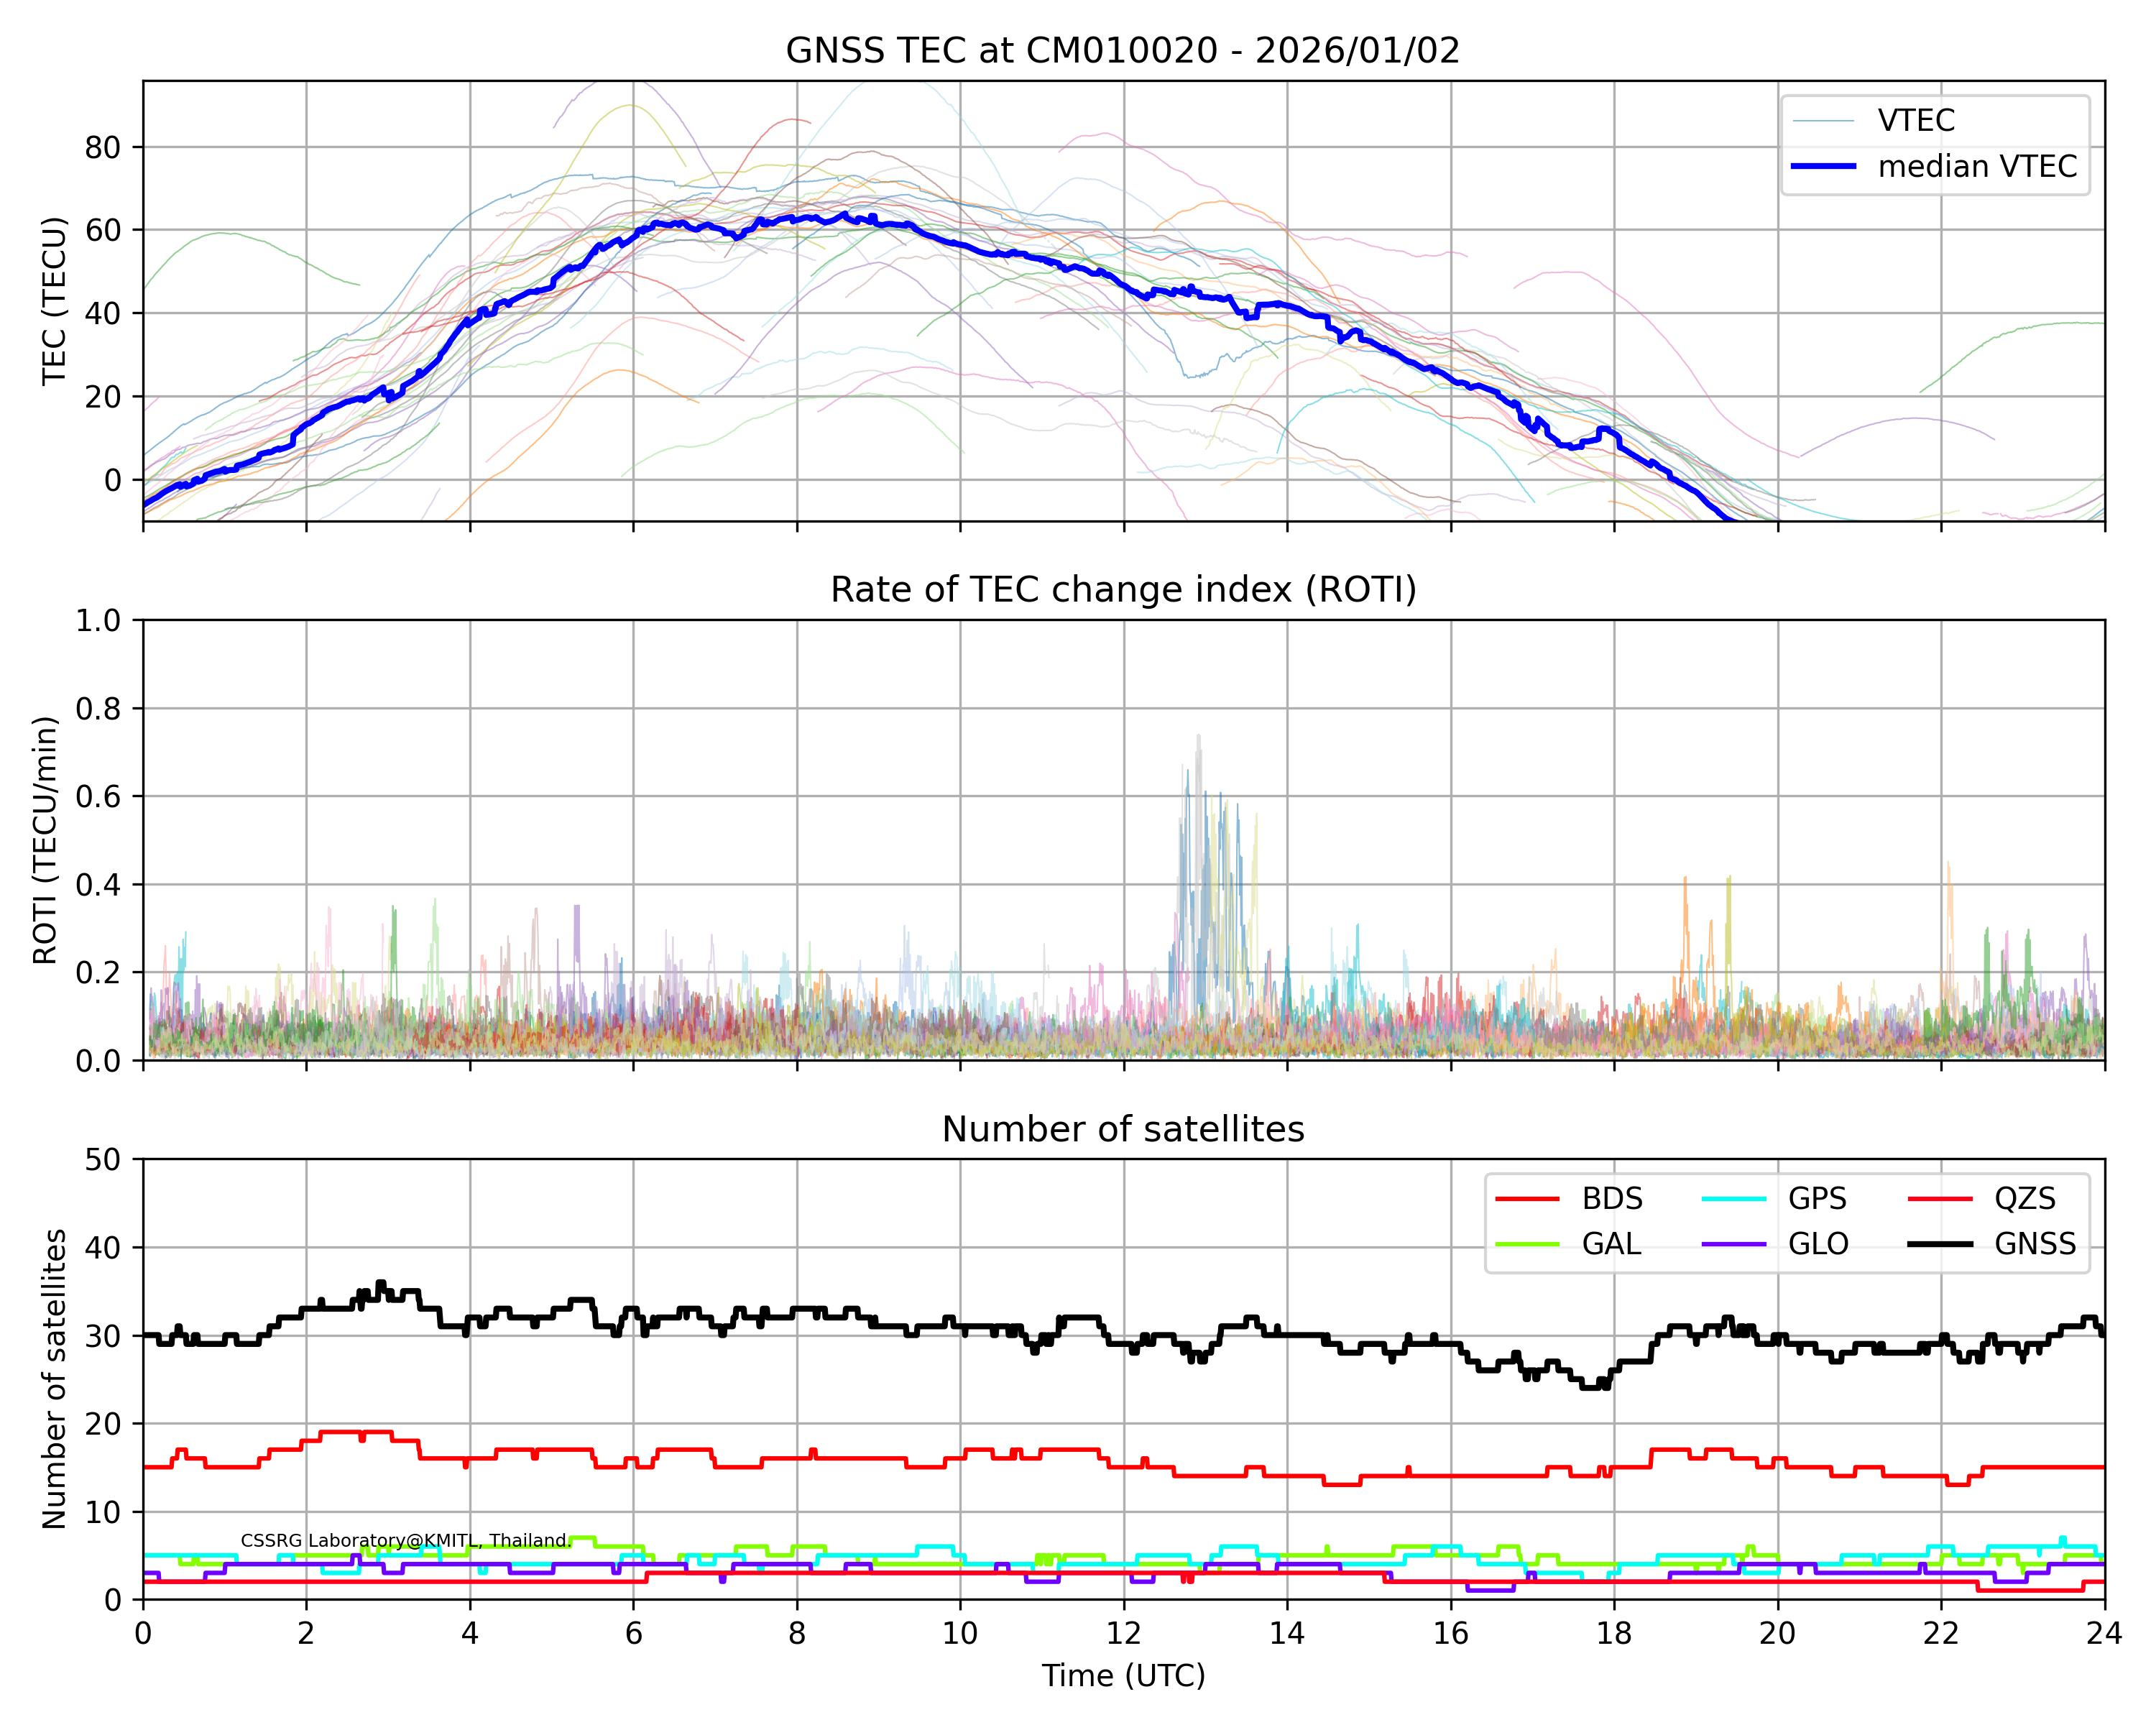
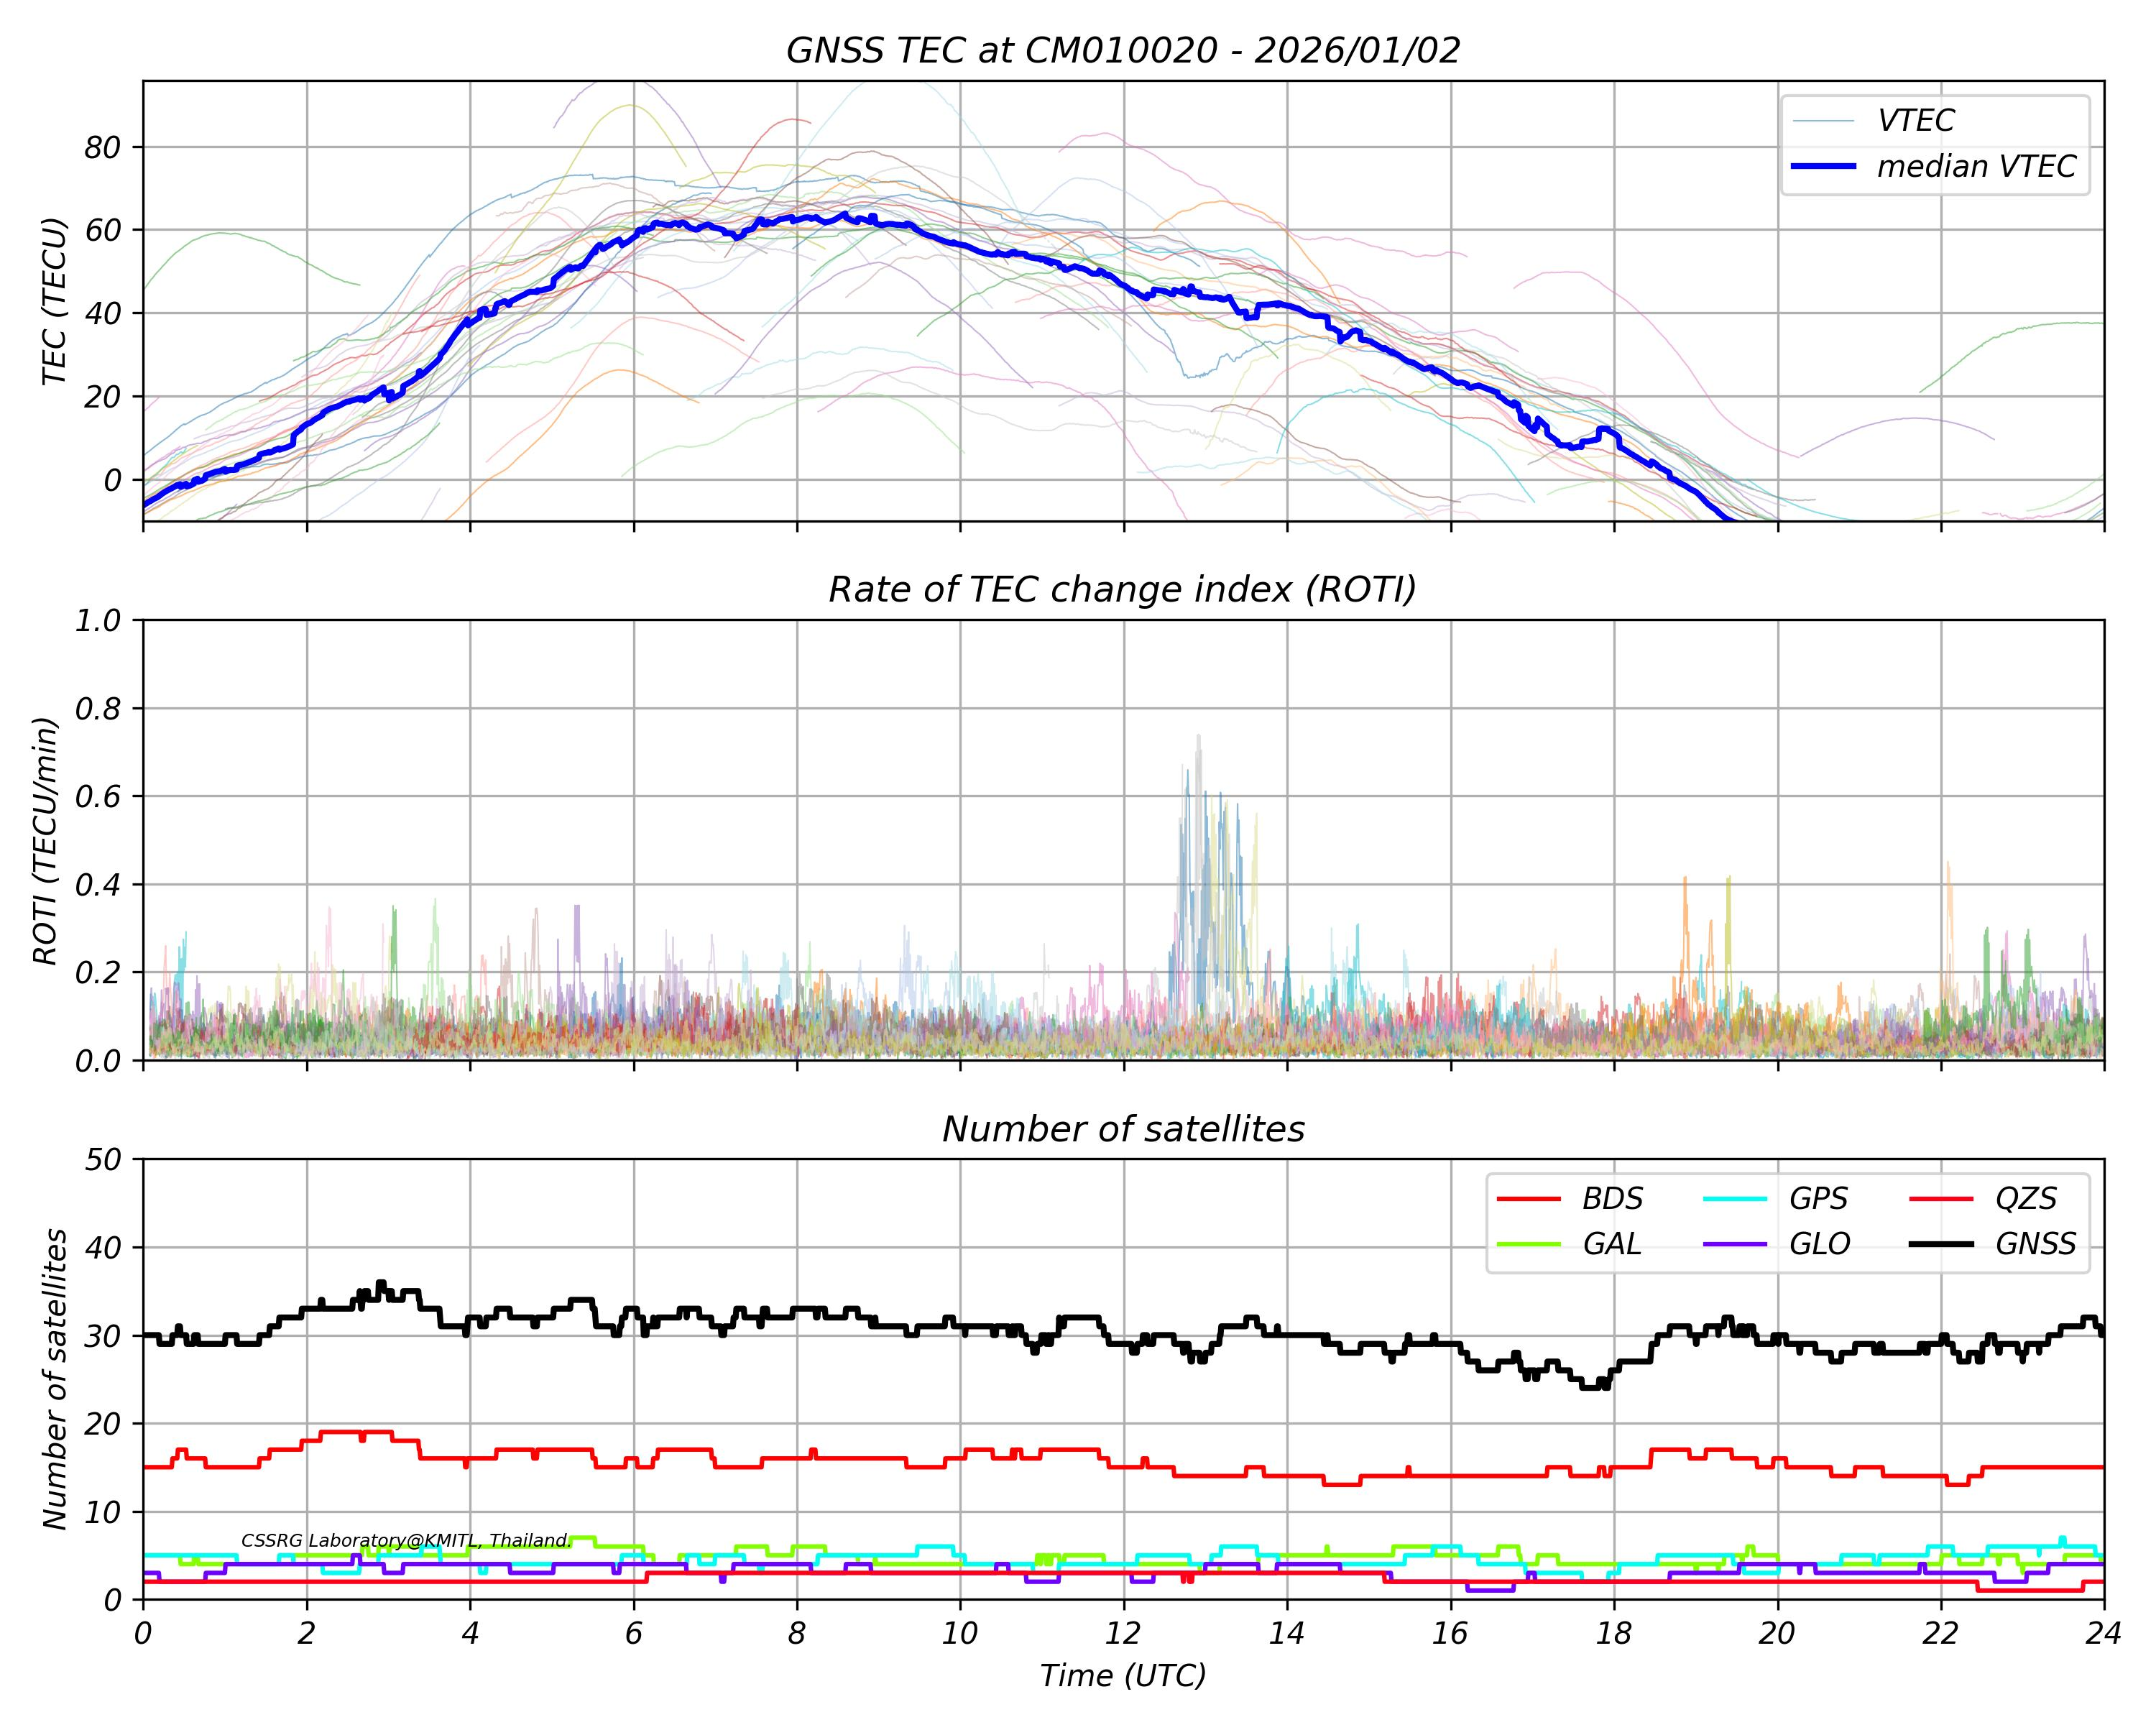
update multiple plot

diff --git a/main_teccal_30_parallel2.m b/main_teccal_30_parallel2.m
@@ -23,7 +23,7 @@ close all;clear
 warning off
 
 % =========== Program's path ==========================
-main_path = "C:\Users\Jumbo\Desktop\TEC_CMU\";             % Program path
+main_path = "D:\Tat_ss\IRI\TEC\github\CM01_TEC_dev";             % Program path
 cd(main_path)
 addpath("function\"); % for calling function from other directory
 RINEX_path = "RINEX\";     % RINEX path
@@ -107,4 +107,4 @@ end
 % Delete observation file to save memory
 % cd(RINEX_path)
 % delete('*d','*o','*n')
-cd(main_path)
+cd(main_path) 

diff --git a/function/getgnssdcb.m b/function/getgnssdcb.m
@@ -14,7 +14,7 @@ if days(today - d) < 25 % 25 days
 end
 disp(DCB_date)
 % get doy calculation
-doy_str      = string(DCB_date,"ddd");
+doy_str      = string(DCB_date,"DDD");
 year_str     = string(DCB_date,"yyyy");
 
 DCB_list = dir("*_" + year_str + doy_str + "0000_01D_01D_DCB.*.gz");

diff --git a/function/py/mat2dataframe.py b/function/py/mat2dataframe.py
@@ -47,4 +47,3 @@ if __name__ == "__main__":
     matfilename = f'{mat_dir}{station}.mat'
 
     T_list = mat2dataframe(matfilename)
-